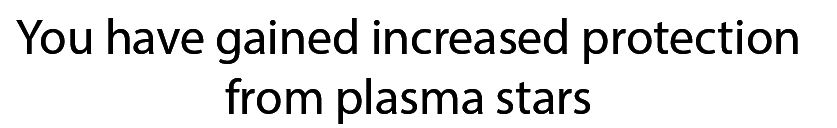
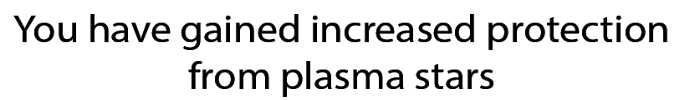
more text

diff --git a/src/Shield.cpp b/src/Shield.cpp
@@ -32,6 +32,17 @@ Shield::Shield(Player* main): ply(main)
 		protectLoc.x, protectLoc.y, 1, openGL->allBufferAttributes["resources/imgs/shield.png"]
 	);
 	openGL->AppendRenderObject(renderProtect);
+	
+	textH = 100;
+	textW = 700;
+	
+	textBox = false;
+	textScreen = {1280/2 - textW/2,720-textH,textW,textH};
+	endMessage = 3;
+	startMessage = 5;
+	
+	renderText = new RenderObject(textScreen.x,720+textH,1,openGL->allBufferAttributes["resources/imgs/Shield_FontB.png"]);
+	openGL->AppendRenderObject(renderText);
 }
 void Shield::Render()
 {
@@ -54,8 +65,12 @@ void Shield::Render()
 			itemLoc.x = 1280;
 			if(intersect)
 			{
+				startMessage = SDL_GetTicks();
+				endMessage = startMessage+2000;
 				ply->hasShield(true);
 				hits = hits + addStrength;
+				textBox = true;
+				renderText->ChangeCoordinates(textScreen.x,textScreen.y,renderText->z);
 			}
 		}
 		renderItem->ChangeCoordinates(
@@ -79,7 +94,12 @@ void Shield::Render()
 	{
 		RenderPower();
 	}
-
+	if(textBox && startMessage>=endMessage)
+	{
+		renderText->ChangeCoordinates(textScreen.x,720+textH,renderText->z);
+		textBox = false;
+	}
+	startMessage = SDL_GetTicks();
 }
 void Shield::RenderPower()
 {

diff --git a/src/Shield.h b/src/Shield.h
@@ -12,6 +12,7 @@ class Shield
 		void RenderPower();
 		void NewItem();
 		void Damage(int hitsTaken);
+		void Text();
 	private:
 		OpenGLRenderer* openGL;
 		//~ SDL_Texture* item;
@@ -30,8 +31,15 @@ class Shield
 		bool screen;
 		int hits;
 		int addStrength;
+		int textH;
+		int textW;
+		bool textBox;
+		SDL_Rect textScreen;
+		unsigned int endMessage;
+		unsigned int startMessage;
 
 		RenderObject* renderItem;
 		RenderObject* renderProtect;
+		RenderObject* renderText;
 };
 #endif

diff --git a/src/OpenGLRenderer.cpp b/src/OpenGLRenderer.cpp
@@ -237,6 +237,7 @@ void OpenGLRenderer::PopulateTextures()
 		{1, 1, "resources/imgs/attack.png"},
 		{1, 6, "resources/imgs/blackhole.png"},
 		{1, 1, "resources/imgs/Mag_Font2.png"},
+		{1, 1, "resources/imgs/Shield_FontB.png"},
 		// TODO REVISE
 		{1, 1, "resources/imgs/chatter_box.png"},
 		{1, 4, "resources/imgs/faxanaduitis.png"},
